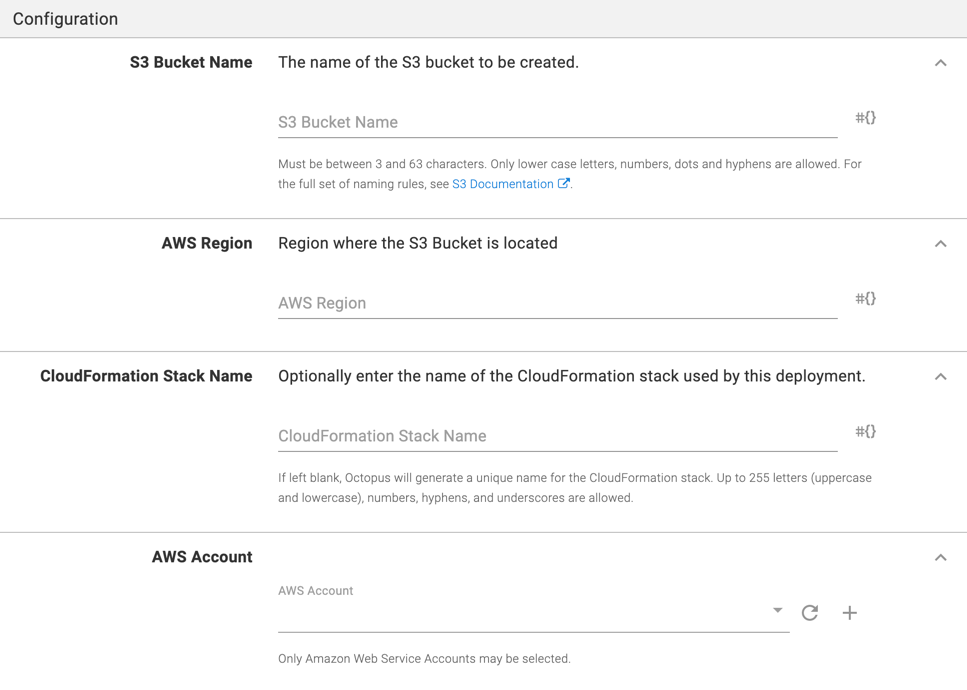
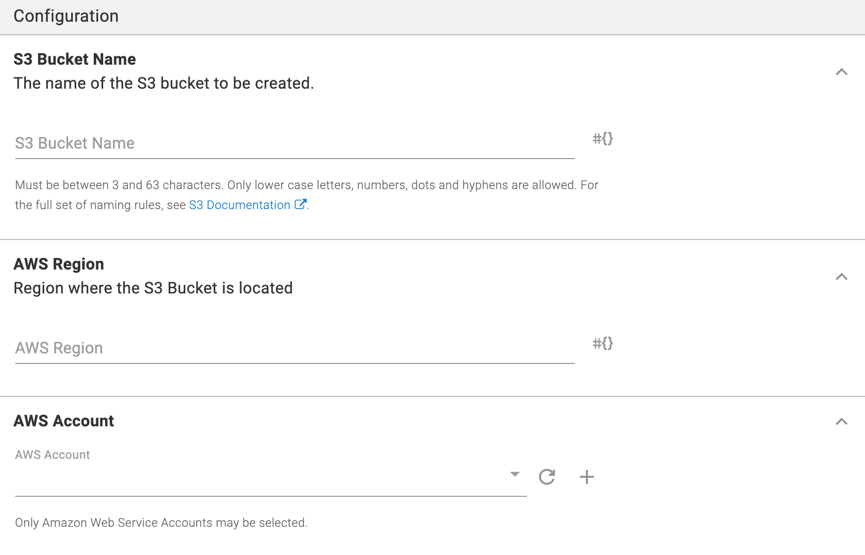
Move the CloudFormation Stack Name field into an Advanced section

diff --git a/docs/deployments/aws/aws-s3-create-bucket/index.md b/docs/deployments/aws/aws-s3-create-bucket/index.md
@@ -29,13 +29,21 @@ The following settings will need to be configured:
 * AWS Region
 * AWS Account
 
-The Bucket Name and the CloudFormationStack Name will be automatically generated if they are not provided.
+The Bucket Name will be automatically generated if it are not provided.
 
 ### Tags section
 
 Specify a list of tags and their values. These tags will be added to Bucket as well as the CloudFormation Stack.
 
 ![Create an Amazon S3 Bucket Tags section](images/tags-section.png "width=500")
+
+### Advanced section
+
+Provide some optional, advanced configuration options.
+
+![Create an Amazon S3 Bucket Tags section](images/advanced-section.png "width=500")
+
+The bucket is created and managed through a CloudFormation stack and you can optionally provide a specific CloudFormation Stack Name to use, otherwise one will be automatically generated.
 
 ## Output variables
 
